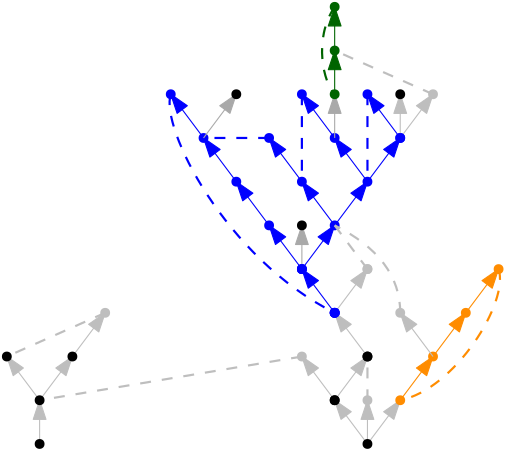
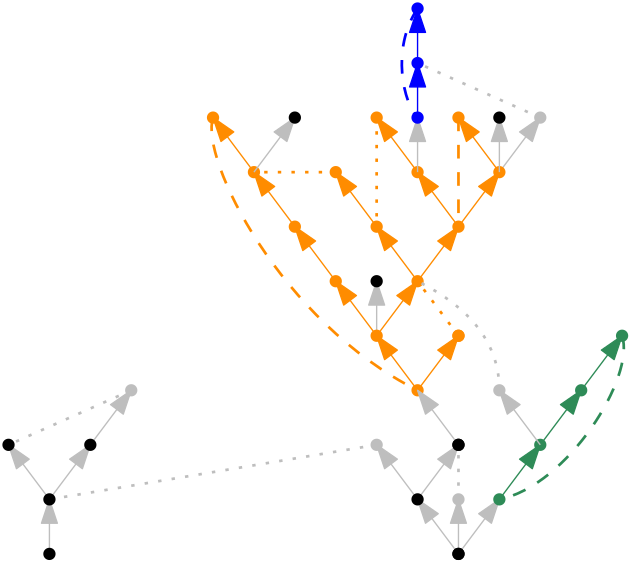
Updates from Overleaf

diff --git a/Content/Sections/Convergence of SSC.tex b/Content/Sections/Convergence of SSC.tex
@@ -199,8 +199,8 @@ If $N_m(\infty)=0$, set $\mathbf{C}(G)=(C_1,\dots,C_m)$, $\mathbf{C}_n(G_n)=(C^n
 The following proposition shows that the law of the heads of the candidates converges as well under rescaling, and that the convergence holds in the pointed Gromov-Hausdorff topology. 
 \begin{proposition}\label{prop.convergenceheadscandidates}
 Suppose the convergence in Propositions \ref{prop.convergenceancestraledges}, \ref{prop.extractexcursions} and \ref{prop.convergencestartingpointscandidates} holds almost surely. Then, for $\mathbf{C}_n(G_n)=(C^n_1,\dots, C^n_{M_n})$, $\mathbf{C}(G)=(C_1,\dots, C_{M})$, let $D^n_i$ be the index of the vertex that the surplus edge corresponding to $C^n_i$ connects to. Similarly, let $D_i$ be the index of the vertex that the surplus edge corresponding to $C_i$ connects to. Then, 
-\begin{align*}&\left(n^{-1/3}\cT_n^{G_n}, n^{-2/3}(G_n+1), n^{-2/3}C^n_1,\dots, n^{-2/3}C^n_{M_n}, n^{-2/3}D^n_1,\dots, n^{-2/3}D^n_{M_n}\right)\\
-&\overset{d}{\to}\left(\cT^{G}, G, C_1,\dots, C_{M}, D_1,\dots, D_{M}\right)\end{align*}
+\begin{align*}&\left(n^{-1/3}\cT_n^{G_n}, n^{-2/3}(G_n+1), \left(n^{-2/3}C^n_1,n^{-2/3}D^n_1\right) \dots, \left(n^{-2/3}C^n_{M_n}, n^{-2/3}D^n_{M_n}\right)\right)\\
+&\overset{d}{\to}\left(\cT^{G}, G, (C_1,D_1),\dots, (C_{M},D_{M})\right)\end{align*}
 in the $2M+1$-pointed Gromov-Hausdorff topology. 
 \end{proposition}
 \begin{proof}
@@ -212,9 +212,61 @@ $$\left(n^{-1/3}\cT^{G_n}_n,n^{-2/3}G_n+1,n^{-2/3}C^n_1,\dots,n^{-2/3}C^n_{m}\ri
 in the $m+1$-pointed Gromov-Hausdorff topology. Since the relation $$\left|\cT^{G_n}_n\left(\{G_n+1,C^n_1,\dots,C^n_{m}\}\right)\right|=\left|\cT^{G_n}_n\left(\{G_n+1,C^n_1,\dots,C^n_{m}, D^n_{m}\}\right)\right|$$ passes to the limit, with $|\cdot|$ denoting the length in the tree as encoded by $(\hat{H}_n(k),k\geq 1)$, the limit in distribution of $n^{-2/3}D^n_m$ is a uniform point on $$\cT^G\left(G,C_1,\dots,C_m\right),$$
 which proves the statement.
 \end{proof}\\
+The proof of Propositions \ref{prop.convergencestartingpointscandidates} and \ref{prop.convergenceheadscandidates} implies the following corollary.
+\begin{corollary}
+We can work on a probability space where the convergence in Propositions \ref{prop.convergencestartingpointscandidates} and \ref{prop.convergenceheadscandidates} holds almost surely. Let $T^{n,\text{mk}}_{G_n}$ be the subtree of $\cT^{G_n}_n$ spanned by $\{G_n+1,C^n_1,\dots,C^n_{M_n}\}$, and similarly, let $T^{\text{mk}}_G$ be the subtree of $\cT^{G}$ spanned by $\{G,C_1,\dots,C_M\}$. Then, also 
+\begin{align*}&\left(n^{-1/3}T^{n,\text{mk}}_{G_n}, n^{-2/3}(G_n+1), \left(n^{-2/3}C^n_1,n^{-2/3}D^n_1\right) \dots, \left(n^{-2/3}C^n_{M_n}, n^{-2/3}D^n_{M_n}\right)\right)\\
+&\to \left(T^{\text{mk}}_G, G, (C_1,D_1),\dots, (C_{M},D_{M})\right)\end{align*}
+almost surely in the $2M+1$-pointed Gromov-Hausdorff topology as $n\to \infty$. Also the total length in the trees converges, i.e.
+$$n^{-1/3}\left|T^{n,\text{mk}}_{G_n}\right|\to \left| T^{\text{mk}}_G\right|$$
+almost surely as $n\to\infty$.
+\end{corollary}
+We now identify the vertices that are part of a candidate as described in Subsubsection \ref{subsubsec.samplecandidates}. In $T^{n,\text{mk}}_{G_n}$, set $C_i^n\sim D_i^n$ for each $1\leq i\leq M_n$, and set $\cM^n_{G_n}:=T^{n,\text{mk}}_{G_n}/\sim$. Moreover, in $T^{\text{mk}}_{G}$, set $C_i\sim D_i$ for each $1\leq i\leq M$, and set $\cM_{G}:=T^{\text{mk}}_{G}/\sim$. View both as elements of $\vec{\cG}$ in the natural way. To be precise, in  $\cM^n_{G_n}$, let the vertex set consist of $G_n+1$, $D_i^n$ for $i\leq M_n$, and the branch points $C_i^n\wedge C_j^n$ for $i\neq j\leq M_n$. Similarly, in $\cM_{G}$, let the vertex set consist of $G$, $D_i$ for $i\leq M$, and the branch points $C_i\wedge C_j$ for $i\neq j\leq M$. Then, the following proposition follows.
+\begin{proposition}
+On the probability space where the convergence in Propositions \ref{prop.convergencestartingpointscandidates} and \ref{prop.convergenceheadscandidates} holds almost surely, 
+$n^{-1/3}\cM^n_{G_n}\overset{a.s.}{\to} \cM_{G}$
+in $\vec{\cG}$.
+\end{proposition}
+\begin{proof}
+The proof is analogous to the proof of Proposition 5.6 in \cite{Goldschmidt2019}.
+\end{proof}
+\begin{corollary}\label{cor.sccsinonetreeconverge}
+On the probability space where the convergence in Propositions \ref{prop.convergencestartingpointscandidates} and \ref{prop.convergenceheadscandidates} holds almost surely, the strongly connected components in $n^{-1/3}\cM^n_{G_n}$, listed in decreasing order of length, converge to the strongly connected components in $\cM_{G}$, listed in decreasing order of length, in $\vec{\cG}$ almost surely as $n\to \infty$.
+\end{corollary}
+\begin{proof}
+This follows from Proposition 5.3 in \cite{Goldschmidt2019}. This proposition requires that the lengths of the strongly connected components in $\cM_{G}$ have different lengths almost surely, but this follows from the proof of Proposition 4.6 in \cite{Goldschmidt2019}, noting that our limit object is in the same universality class as theirs.
+\end{proof}
 
-\myworries{Convergence after identifications and cuttings follows from results by Christina and Robin. Quote the right things here.}
+\begin{corollary}\label{cor.sccordereduptotimeT}
+Let $T>0$, and let $(C^T_i(n),i\geq 1)$ be the strongly connected components in \myworries{name for directed graph} with a candidate with head at most $\lfloor T n^{2/3}\rfloor$ ordered by length. Similarly, let $(\cC^T_i,i\geq 1)$ be the strongly connected components in \myworries{name for directed graph} with a candidate with head at most $T$ ordered by length. Then,
+$$\left(n^{-1/3}C^T_i(n), i\geq 1\right) \overset{d}{\to} (\cC^T_i,i\geq 1)$$
+in the $\vec{\cG}$ product topology as $n\to \infty$. 
+\end{corollary}
+\begin{proof}
+This follows from Proposition \ref{prop.extractexcursions}, Corollary \ref{cor.sccsinonetreeconverge}, and the fact that all SCCs in the limit object have a different length by the proof of Proposition 4.6 in \cite{Goldschmidt2019}. 
+\end{proof}
 
+Finally, we claim that we can choose $T$ large enough such that all SCC with large length are explored before time $T$. This is the content of the following lemma. The proof is in the same spirit as Lemma 9 in \cite{Aldous1991} by Aldous. 
+\begin{lemma}\label{lemma.largesccfoundfirst}
+For $\delta>0$ and $I$ an interval, let $SCC(n,I,\delta)$ denote the number of SCCs whose vertices have at total of at least $\delta n^{1/3}$ in-edges and whose time of first discovery is in $n^{2/3}I$. Then,
+$$\lim_{s\to \infty}\limsup_{n} \P\left(SCC(n,(s,\infty),\delta)\geq 1\right)=0\text{ for all }\delta>0.$$
+\end{lemma}
+\begin{proof}
+Fix $\delta>0$. Suppose there is a strongly connected component $C$ with $vn^{1/3}$ total in-edges. Conditional on this fact, the in-edges that are paired up to the first in-edge of $C$ is paired, are uniform picks (without replacement) from the total set of in-edges. Denote the time of discovery of the first in-edge of $C$ times $n^{-2/3}$ by $\Xi_n$. Then, $\Xi_n\overset{d}{\to}\operatorname{Exp}(v)$. Fix $\epsilon>0$. We see that, by the memoryless property at time $s$,
+$$\P\left(SCC\left(n,(s,2s),\delta\right)=0|SCC\left(n,(s,\infty),\delta\right)\geq 1\right)$$
+is asymptotically bounded from above by 
+$\exp(-s\delta)$ by the memoryless property at time $s$, such that we can find an $s>0$ such that for all $n$ large enough,
+$$\P\left(SCC\left(n,(s,\infty),\delta\right)\geq 1 \text{ and }SCC\left(n,(s,2s),\delta\right)=0\right)<\epsilon.$$
+We claim that, by possibly increasing $s$ and $n$, we also get that 
+$$\P\left(SCC\left(n,(s,2s),\delta\right)=0\right)>1-\epsilon,$$
+which proves the statement.
+Firstly, we observe that the ratio of the length of an $SCC$ and its total in-degree are asymptotically equal to $\frac{\sigma_{-+}+\nu_-}{2\mu}$ by the proof of Proposition \ref{prop.convergenceheadscandidates}. Then, note that it is clear from the description of the limit process that, for $s$ large enough, with probability at most $\epsilon/2$, an SCC with total length at least $\frac{\mu}{\sigma_{-+}+\nu_-}\delta$ is discovered after time $s$. By convergence of the exploration process on compact time intervals, by choosing $n$ large enough, we can then ensure that 
+$$\P\left(SCC\left(n,(s,2s),\delta\right)=0\right)>1-\epsilon.$$
+We conclude that 
+$$\P(SCC\left(n,(s,\infty),\delta\right)\geq 1)\leq 2\epsilon.$$
+\end{proof}\\
+
+Then, Theorem \myworries{main result} follows from Corollary \ref{cor.sccordereduptotimeT} and Lemma \ref{lemma.largesccfoundfirst}. 
 
 % As discussed in Subsection \ref{subsec.categoriessurplusedged}, ancestral surplus edges are important building blocks of non-trivial strongly connected components, but also descendental and additional surplus edges can be included in a strongly connected component. However, this can only occur if there is also an ancestral surplus edge present in the same strongly connected components. Corollary \ref{cor.convergencesequenceofcomponents} implies that the encoding processes of these components converge as a sequence ordered by component size (note that we include the purple vertices in the size). We will now define the process of finding the important additional and descendental surplus edges on such a component, given its encoding processes.\\
 % We will identify purple vertices are possibly part of a strongly connected component. We call these surplus edges \emph{candidates} and we define them in such a way that the important non-ancestral surplus edges are contained in the set of candidates. We will use Lemma \ref{lemma.whatispartofscc}.\ref{item.factsonsccs4} to define our candidates. The lemma states that non-ancestral surplus edges are only important if their head is on the path from the root of the out-component to the tail of an important surplus edge. This is not a sufficient condition, but by only declaring a surplus edge a candidate if it is on the path from the root of the out-component to the tail of another candidate, we will with high probability have a finite number of candidates per component, after which we can easily distinguish between candidates and important surplus edges.\\
@@ -245,26 +297,3 @@ which proves the statement.
 
 % \subsubsection{Important surplus edges on a single tree}
 
-
-
-\subsection{For large $T$, we see all SCCs with large length before time $Tn^{2/3}$ with high probability}
-We claim that exploring the out-components up to time $O(n^{2/3})$ is sufficient to see all large components. This is the content of the following theorem. The proof is in the same spirit as Lemma 9 in \cite{Aldous1991} by Aldous. 
-\begin{lemma}
-For $\delta>0$ and $I$ an interval, let $SCC(n,I,\delta)$ denote the number of SCCs whose vertices have at total of at least $\delta n^{1/3}$ in-edges and whose time of first discovery is in $n^{2/3}I$. Then,
-$$\lim_{s\to \infty}\limsup_{n} \P\left(SCC(n,(s,\infty),\delta)\geq 1\right)=0\text{ for all }\delta>0.$$
-\end{lemma}
-\begin{proof}
-Fix $\delta>0$. Suppose there is a strongly connected component $C$ with $vn^{1/3}$ total in-edges. Conditional on this fact, the in-edges that are paired up to the first in-edge of $C$ is paired, are uniform picks (without replacement) from the total set of in-edges. Denote the time of discovery of the first in-edge of $C$ times $n^{-2/3}$ by $\Xi_n$. Then, $\Xi_n\overset{d}{\to}\operatorname{Exp}(v)$. Fix $\epsilon>0$. We see that, by the memoryless property at time $s$,
-$$\P\left(SCC\left(n,(s,2s),\delta\right)=0|SCC\left(n,(s,\infty),\delta\right)\geq 1\right)$$
-is asymptotically bounded from above by 
-$\exp(-s\delta)$ by the memoryless property at time $s$, such that we can find an $s>0$ such that for all $n$ large enough,
-$$\P\left(SCC\left(n,(s,\infty),\delta\right)\geq 1 \text{ and }SCC\left(n,(s,2s),\delta\right)=0\right)<\epsilon.$$
-We claim that, by possibly increasing $s$ and $n$, we also get that 
-$$\P\left(SCC\left(n,(s,2s),\delta\right)=0\right)>1-\epsilon,$$
-which proves the statement.
-Firstly, we observe that the ratio of the length of an $SCC$ and its total in-degree are asymptotically equal to $\frac{\sigma_{-+}+\nu_-}{2\mu}$ by the proof of Proposition \ref{prop.convergenceheadscandidates}. Then, note that it is clear from the description of the limit process that, for $s$ large enough, with probability at most $\epsilon/2$, an SCC with total length at least $\frac{\mu}{\sigma_{-+}+\nu_-}\delta$ is discovered after time $s$. By convergence of the exploration process on compact time intervals, by choosing $n$ large enough, we can then ensure that 
-$$\P\left(SCC\left(n,(s,2s),\delta\right)=0\right)>1-\epsilon.$$
-We conclude that 
-$$\P(SCC\left(n,(s,\infty),\delta\right)\geq 1)\leq 2\epsilon.$$
-\end{proof}
-\subsection{Convergence of the cutting procedure}

diff --git a/Content/Sections/The important edges in the discrete and continuum.tex b/Content/Sections/The important edges in the discrete and continuum.tex
@@ -44,13 +44,13 @@ This follows from Definition \ref{def.candidate} and parts \ref{item.factsonsccs
 \begin{subfigure}{0.7\textwidth}
  \centering
     \includegraphics[width=0.7\linewidth]{Content/Pictures/Types of surplus edges.png}
-    \caption{This figure illustrates an example of a depth-first exploration of two out-components with the different type of surplus edges highlighted. The ancestral surplus edges (green) point from a vertex $v$ to one of its ancentors. They are always part of a strongly connected component.}
+    \caption{This figure illustrates an example of a depth-first exploration of two out-components with the different type of surplus edges highlighted. The ancestral surplus edges (green dashed) point from a vertex $v$ to one of its ancentors. They are always part of a strongly connected component. The other surplus edges are depicted as red dotted lines.}
     \label{subfigure.typesofsurplusedges} 
 \end{subfigure}\\
 \begin{subfigure}{0.7\textwidth}
   \centering
   \includegraphics[width=0.7\linewidth]{Content/Pictures/SCC in example.png}
-  \caption{The non-trivial strongly connected components embedded in the components of the out-forest are depicted in blue, green and orange. The trivial strongly connected components are black. The grey edges are not part of a strongly connected component, and the grey vertices correspond to purple leaves that are not part of a strongly connected component.}
+  \caption{The non-trivial strongly connected components embedded in the components of the out-forest are depicted in orange, blue and green. The trivial strongly connected components are black. The grey edges are not part of a strongly connected component, and the grey vertices correspond to purple leaves that are not part of a strongly connected component.}
     \label{subfigure.sccinexample}
 \end{subfigure}
 \caption{We illustrate the different types of surplus edges and how they affect the structure of the strongly connected components.}
